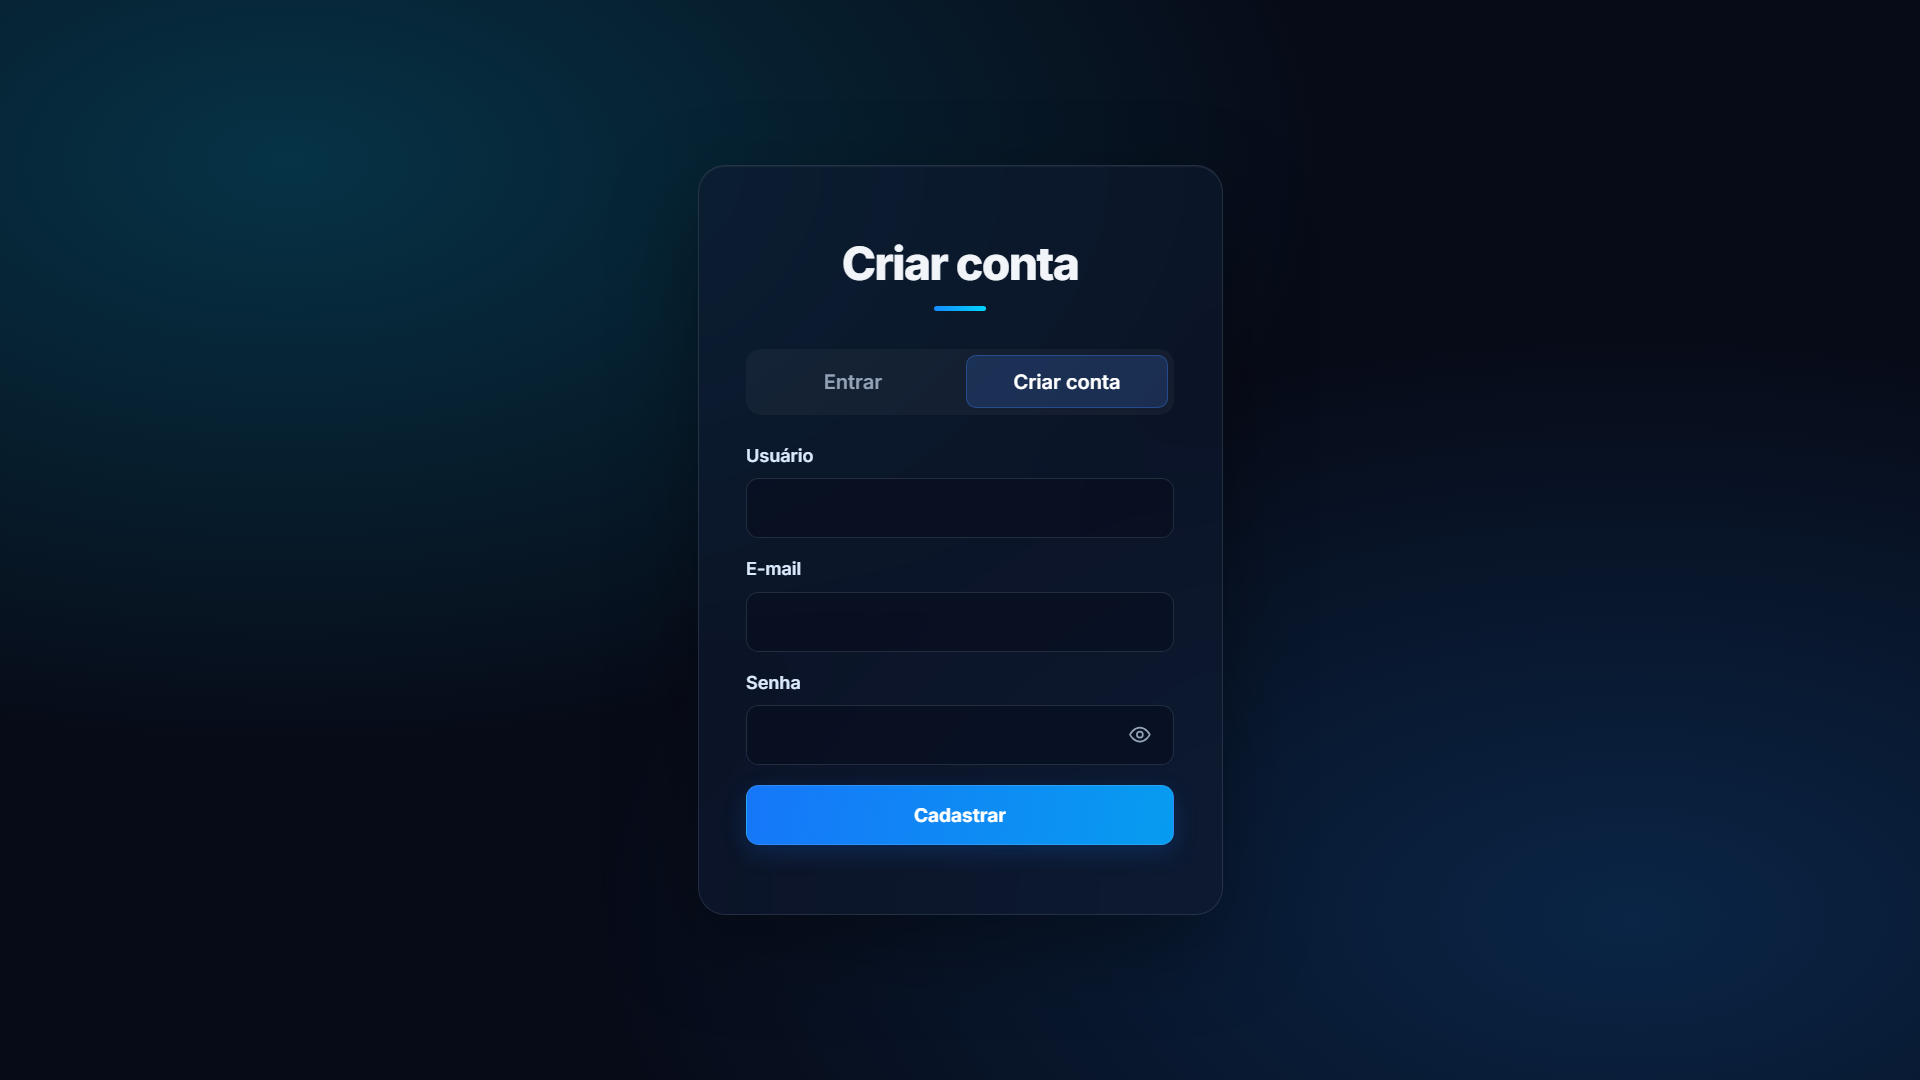
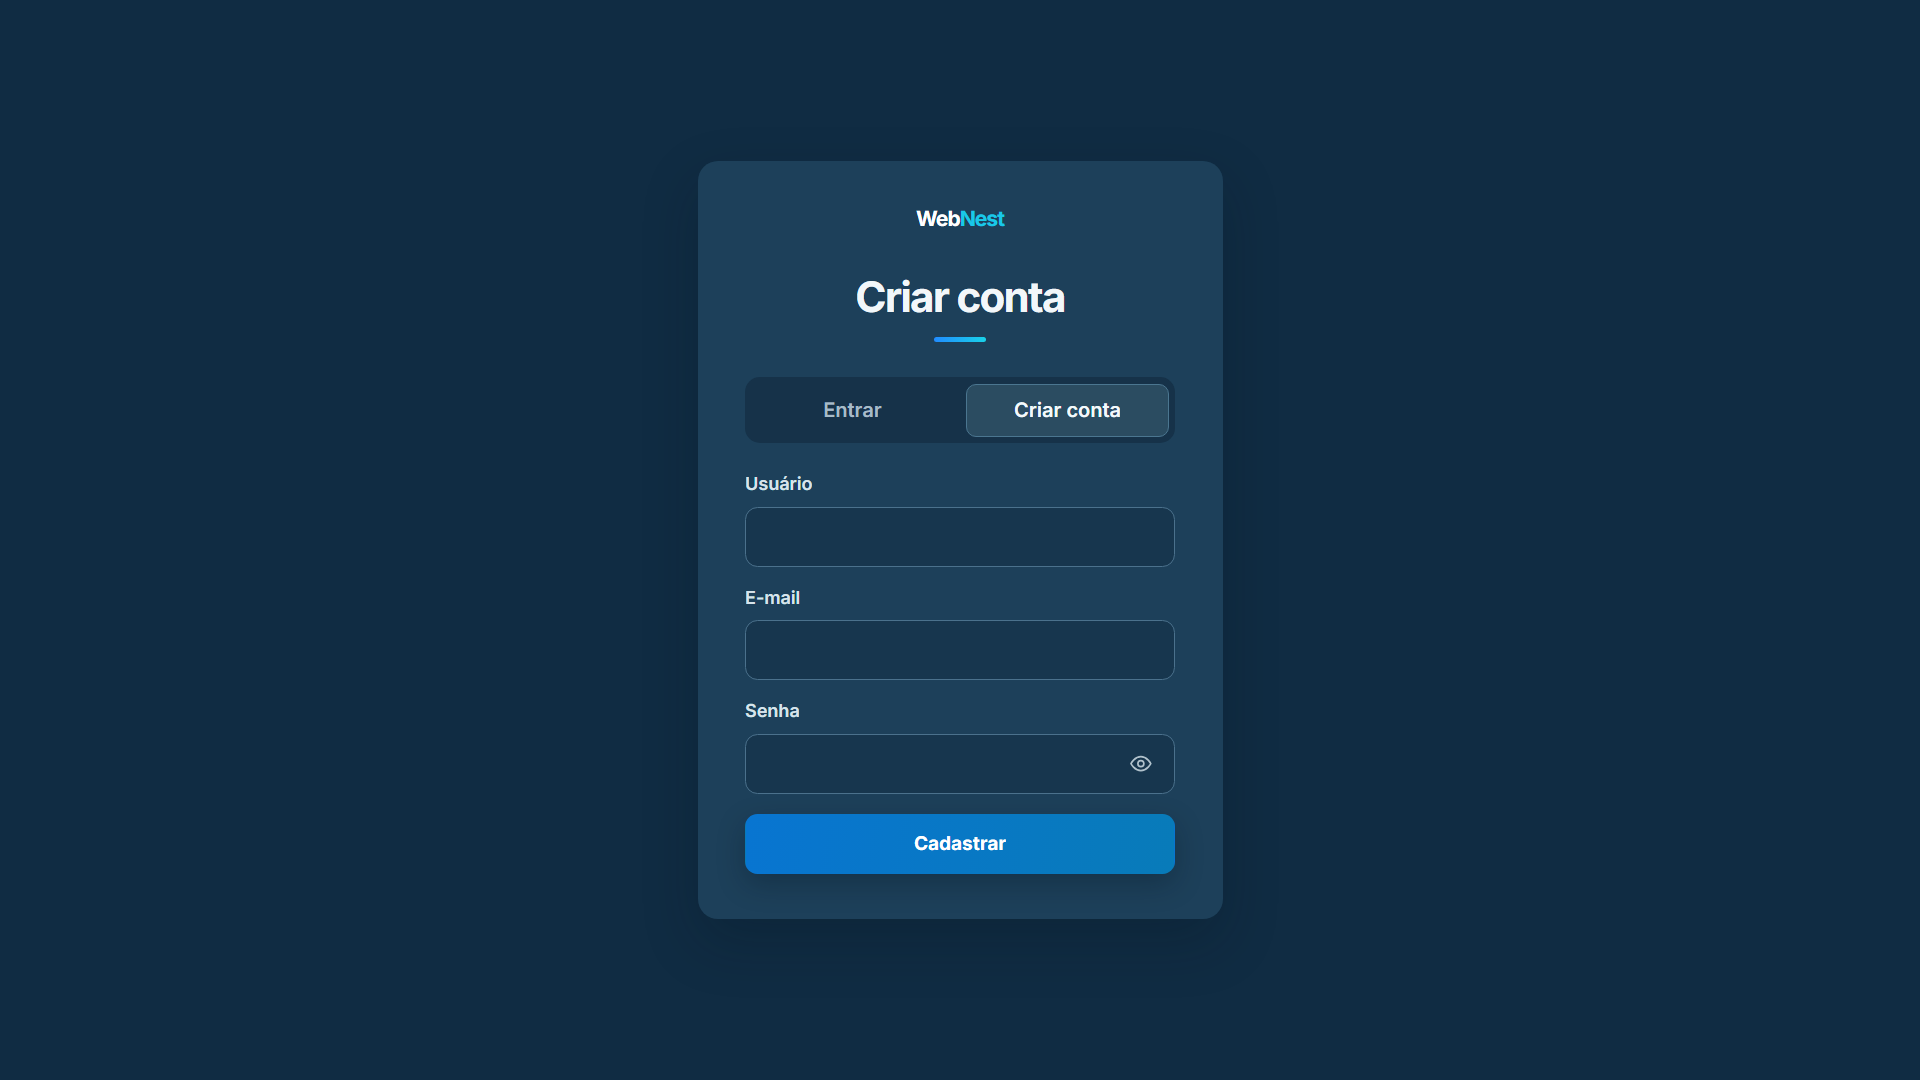
Mudanças na paleta de cores. Versão 1.1

diff --git a/style/style.css b/style/style.css
@@ -1,13 +1,15 @@
 @import url("https://fonts.googleapis.com/css2?family=Inter:wght@400;500;600;700;800&display=swap");
 
 :root {
-  --bg-dark: #070b18;
-  --primary: #168cff;
-  --primary-light: #00d4ff;
-  --text: #f1f5f9;
-  --text-muted: #94a3b8;
-  --input-bg: rgba(5, 12, 30, 0.55);
-  --border: rgba(148, 163, 184, 0.2);
+  --surface: #1d405a;
+  --canvas: #102c43;
+  --primary: #0d7dba;
+  --primary-hover: #0a6fa8;
+  --primary-soft: #2b4c61;
+  --text: #f2f7fa;
+  --text-muted: #b1c2cc;
+  --input-bg: #17364e;
+  --border: #4b718c;
 }
 
 * {
@@ -20,18 +22,13 @@ body {
   min-height: 100vh;
   font-family: "Inter", sans-serif;
   color: var(--text);
-  background:
-    radial-gradient(
-      ellipse at 15% 15%,
-      rgba(0, 212, 255, 0.2),
-      transparent 45%
-    ),
-    radial-gradient(
-      ellipse at 85% 85%,
-      rgba(22, 140, 255, 0.2),
-      transparent 45%
-    ),
-    var(--bg-dark);
+  background: var(--canvas);
+  accent-color: var(--primary);
+}
+
+::selection {
+  color: #eff8fc;
+  background: #29668a;
 }
 
 /* Centralização */
@@ -49,34 +46,41 @@ body {
 .login-card {
   width: 100%;
   max-width: 420px;
-  min-height: 600px;
+  min-height: 560px;
   height: auto;
-  padding: 32px 38px;
+  padding: 36px 38px;
 
   display: flex;
   flex-direction: column;
   justify-content: center;
 
-  background: rgba(15, 25, 48, 0.58);
-  backdrop-filter: blur(24px);
-  -webkit-backdrop-filter: blur(24px);
+  background: var(--surface);
+  border: none;
+  border-radius: 16px;
+  box-shadow: 0 18px 45px rgba(5, 18, 28, 0.22);
+}
 
-  border: 1px solid rgba(148, 163, 184, 0.18);
-  border-radius: 22px;
+.brand-lockup {
+  margin-bottom: 32px;
+  color: #19c8e8;
+  font-size: 1.05rem;
+  font-weight: 700;
+  letter-spacing: -0.045em;
+  text-align: center;
+}
 
-  box-shadow:
-    0 24px 70px rgba(0, 0, 0, 0.35),
-    inset 0 1px 0 rgba(255, 255, 255, 0.05);
+.brand-lockup span {
+  color: #ffffff;
 }
 
 /* Títulos */
 
 .login-card h1 {
-  font-size: 2.3rem;
-  font-weight: 800;
+  font-size: 2.1rem;
+  font-weight: 700;
   text-align: center;
-  letter-spacing: -1.2px;
-  margin-bottom: 30px;
+  letter-spacing: -0.04em;
+  margin-bottom: 28px;
 }
 
 .login-card h1::after {
@@ -85,10 +89,8 @@ body {
   width: 42px;
   height: 4px;
   margin: 12px auto 0;
-
-  background: linear-gradient(90deg, var(--primary), var(--primary-light));
-
-  border-radius: 10px;
+  background: linear-gradient(90deg, #218cff, #19d2e8);
+  border-radius: 999px;
 }
 
 /* Formulários */
@@ -109,7 +111,7 @@ body {
 .form-group label {
   font-size: 0.9rem;
   font-weight: 600;
-  color: #dbeafe;
+  color: #d7e4eb;
 }
 
 /* Campos */
@@ -135,17 +137,17 @@ body {
 }
 
 .form-group input:hover {
-  border-color: rgba(96, 165, 250, 0.45);
+  border-color: #6a91a8;
 }
 
 .form-group input:focus {
-  background: rgba(5, 12, 30, 0.8);
+  background: #20394a;
   border-color: var(--primary);
-  box-shadow: 0 0 0 3px rgba(22, 140, 255, 0.13);
+  box-shadow: 0 0 0 3px rgba(43, 159, 215, 0.16);
 }
 
 .form-group input::placeholder {
-  color: #64748b;
+  color: #91a8b6;
 }
 
 /* Campo de senha e botão de visibilidade */
@@ -190,8 +192,8 @@ body {
 }
 
 #toggle-password:hover {
-  color: var(--primary-light);
-  background: rgba(22, 140, 255, 0.12);
+  color: var(--primary);
+  background: #29485b;
 }
 
 #toggle-password:focus-visible {
@@ -207,7 +209,7 @@ body {
   margin-bottom: 24px;
   padding: 5px;
   border-radius: 12px;
-  background: rgba(255, 255, 255, 0.04);
+  background: #163249;
 }
 
 .auth-tab {
@@ -216,21 +218,22 @@ body {
   border: 1px solid transparent;
   border-radius: 8px;
   background: transparent;
-  color: #94a3b8;
+  color: #a7bbc7;
   font: inherit;
   font-weight: 600;
+  white-space: nowrap;
   cursor: pointer;
   transition: 0.2s ease;
 }
 
 .auth-tab:hover {
-  color: #ffffff;
+  color: #eef7fb;
 }
 
 .auth-tab.active {
-  color: #ffffff;
-  background: rgba(59, 130, 246, 0.18);
-  border-color: rgba(59, 130, 246, 0.35);
+  color: #f3f9fc;
+  background: var(--primary-soft);
+  border-color: #4b7690;
 }
 
 /* Mensagens */
@@ -240,7 +243,7 @@ body {
   font-size: 0.85rem;
   line-height: 1.5;
   margin-bottom: 12px;
-  color: #fca5a5;
+  color: #ffb4ad;
   overflow-wrap: anywhere;
 }
 
@@ -258,35 +261,34 @@ body {
   font-family: inherit;
   font-size: 0.95rem;
   font-weight: 700;
-  color: white;
+  color: #ffffff;
 
-  background: linear-gradient(100deg, #1677f9, #079cf0);
+  background: linear-gradient(100deg, #0875d1, #087bb9);
 
-  border: 1px solid rgba(255, 255, 255, 0.12);
+  border: 1px solid transparent;
   border-radius: 10px;
 
   cursor: pointer;
-
-  box-shadow: 0 6px 20px rgba(22, 119, 249, 0.2);
+  box-shadow: 0 8px 22px rgba(5, 18, 28, 0.28);
 
   transition:
-    transform 0.2s ease,
-    box-shadow 0.2s ease,
-    filter 0.2s ease;
+    background 0.2s ease,
+    border-color 0.2s ease,
+    box-shadow 0.2s ease;
 }
 
 .login-button:hover {
-  transform: translateY(-2px);
-  filter: brightness(1.12);
-  box-shadow: 0 10px 28px rgba(22, 119, 249, 0.32);
+  background: linear-gradient(100deg, #0a7cba, #087ac0);
+  box-shadow: 0 10px 26px rgba(5, 18, 28, 0.34);
 }
 
 .login-button:active {
-  transform: translateY(0);
+  background: #076ca5;
+  box-shadow: 0 5px 14px rgba(5, 18, 28, 0.24);
 }
 
 .login-button:focus-visible {
-  outline: 2px solid var(--primary-light);
+  outline: 2px solid var(--primary);
   outline-offset: 3px;
 }
 
@@ -307,7 +309,7 @@ body {
   font-family: inherit;
   font-size: 0.85rem;
   font-weight: 600;
-  color: var(--primary-light);
+  color: #19d2e8;
   text-align: center;
 
   background: transparent;
@@ -319,7 +321,7 @@ body {
 }
 
 .text-button:hover {
-  color: #ffffff;
+  color: #7be9f4;
 }
 
 .text-button:focus-visible {
@@ -361,12 +363,11 @@ body {
   align-items: center;
   justify-content: center;
 
-  color: #86efac;
-  background: rgba(34, 197, 94, 0.12);
-  border: 1px solid rgba(134, 239, 172, 0.25);
+  color: #9ee6b7;
+  background: #244a3c;
+  border: 1px solid #4d9070;
   border-radius: 50%;
 
-  box-shadow: 0 0 40px rgba(34, 197, 94, 0.08);
 }
 
 .login-card #welcome-view h1 {
@@ -383,7 +384,7 @@ body {
 
 .welcome-username {
   margin-top: 6px;
-  color: var(--primary-light);
+  color: var(--primary);
   font-size: 1.3rem;
   font-weight: 800;
   overflow-wrap: anywhere;
@@ -398,9 +399,9 @@ body {
   align-items: center;
   gap: 9px;
 
-  color: #86efac;
-  background: rgba(34, 197, 94, 0.08);
-  border: 1px solid rgba(134, 239, 172, 0.16);
+  color: #a9e8c0;
+  background: #203e34;
+  border: 1px solid #467b61;
   border-radius: 30px;
 
   font-size: 0.85rem;
@@ -411,12 +412,31 @@ body {
   width: 8px;
   height: 8px;
   border-radius: 50%;
-  background: #4ade80;
-  box-shadow: 0 0 10px rgba(74, 222, 128, 0.6);
+  background: #55c881;
 }
 
 #logout-button {
   margin-top: 4px;
+}
+
+/* Tablets */
+
+@media (min-width: 768px) and (max-width: 1199px) {
+  .login-card {
+    max-width: 480px;
+    min-height: 620px;
+    padding: 44px 46px;
+  }
+
+  .brand-lockup {
+    margin-bottom: 36px;
+    font-size: 1.12rem;
+  }
+
+  .login-card h1 {
+    font-size: 2.3rem;
+    margin-bottom: 32px;
+  }
 }
 
 /* Celulares */
@@ -429,12 +449,28 @@ body {
   .login-card {
     min-height: 0;
     padding: 32px 24px;
-    border-radius: 18px;
+    border-radius: 16px;
+  }
+
+  .brand-lockup {
+    margin-bottom: 28px;
   }
 
   .login-card h1 {
     font-size: 2rem;
     margin-bottom: 26px;
+  }
+}
+
+@media (max-width: 340px) {
+  .auth-tabs {
+    gap: 4px;
+    padding: 4px;
+  }
+
+  .auth-tab {
+    padding: 10px 4px;
+    font-size: 0.82rem;
   }
 }
 

diff --git a/index.html b/index.html
@@ -16,6 +16,9 @@
 <body>
     <main class="login-container">
         <section class="login-card">
+            <div class="brand-lockup" aria-label="WebNest">
+                <span>Web</span>Nest
+            </div>
 
             <!-- Tela de login e cadastro -->
             <div id="auth-view">

diff --git a/README.md b/README.md
@@ -2,7 +2,7 @@
 
 Uma página de autenticação moderna, responsiva e com integração ao Supabase, desenvolvida para oferecer uma experiência simples e funcional de acesso e gerenciamento de contas.
 
-Versão 1.0
+Versão 1.1
 
 🔗 **Acesse o projeto:** [WebNest LoginPage](https://gabriel-silira.github.io/WebNest-LoginPage/)
 
